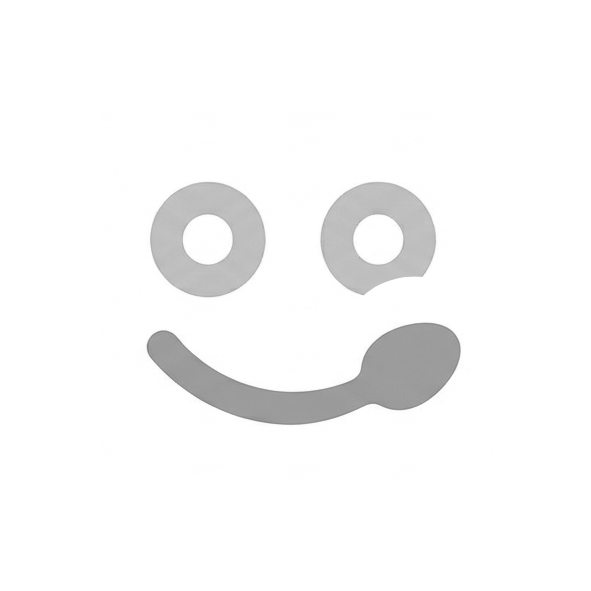
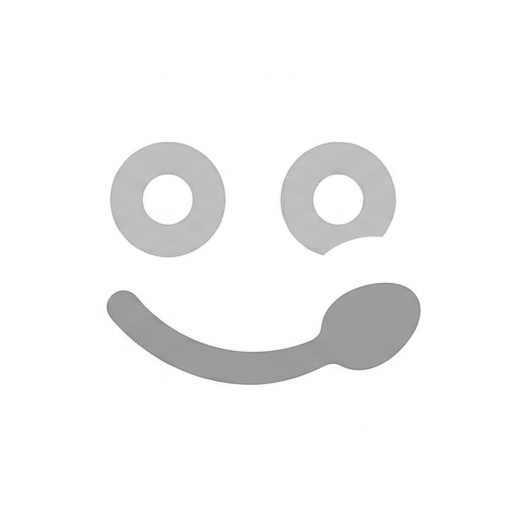
beta 1.3.0 (6)

diff --git a/scripts/generate-android-icons.js b/scripts/generate-android-icons.js
@@ -12,8 +12,8 @@ async function main() {
 
   // Android Adaptive Icon のセーフゾーンは中央66%
   // 画像全体を表示するには、元の画像をキャンバスの約66%の領域に収める必要がある
-  // つまり、キャンバスサイズ = 元画像サイズ / 0.66 ≈ 元画像サイズ × 1.5
-  const scaleFactor = 1.5;
+  // スケールファクターを1.3に調整して、アイコンを少し小さく表示
+  const scaleFactor = 1.3;
   const newSize = Math.round(size * scaleFactor);
   const offset = Math.round((newSize - size) / 2);
 
